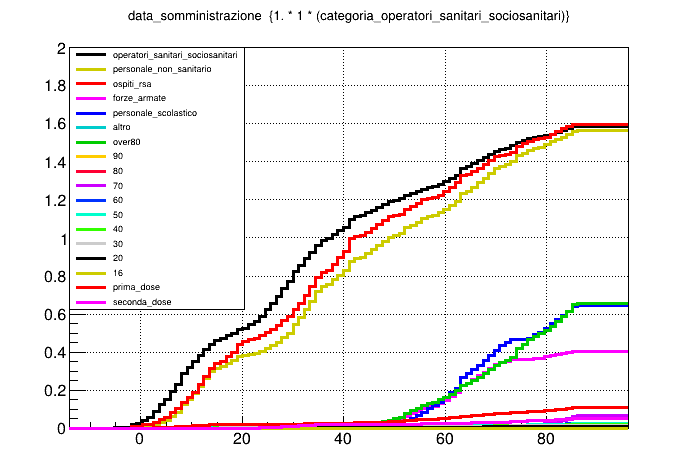
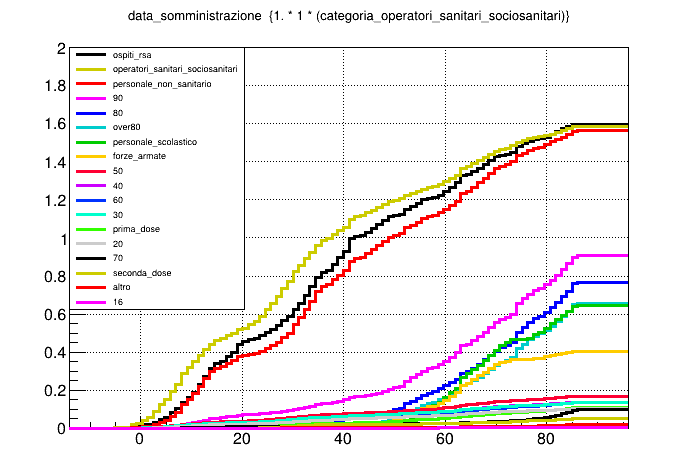
add vaccini

diff --git a/scriptVaccini.py b/scriptVaccini.py
@@ -222,24 +222,26 @@ cats = [
 
 max_=0
 histos = {}
+ratio = {}
 for i,cat in enumerate(cats):
     dosi = str(cat)
     selection = "1"
     if type(cat)==int: 
-        dosi = "(categoria_altro) * (fascia_anagrafica==%d)"%cat
+        dosi = "(prima_dose+seconda_dose) * (fascia_anagrafica==%d)"%cat
     histos[cat] = getPlot(somministrazioniTree, selection = selection, dosi = dosi, cumulative = cumulative, hname="histo_%s"%str(cat))
-    histos[cat].SetLineColor(colors[i])
     histos[cat].SetLineWidth(3)
     histos[cat].SetFillStyle(0)
     histos[cat].Scale(1./norms[cat])
+    ratio[cat] = histos[cat].GetMaximum()
     if not "sanitari" in str(cat): 
         max_ = max(max_, histos[cat].GetMaximum())
 
 leg = ROOT.TLegend(0.1,0.35,0.35,0.9)
 
 c1 = ROOT.TCanvas("c1")
-for i,cat in enumerate(cats):
+for i,cat in enumerate(reversed([x for _,x in sorted(zip(ratio.values(),ratio.keys()))])):
 #    histos[cat].SetMaximum(max_*1.1)
+    histos[cat].SetLineColor(colors[i])
     histos[cat].SetMaximum(2.)
     if i==0:
         histos[cat].Draw("HIST")
